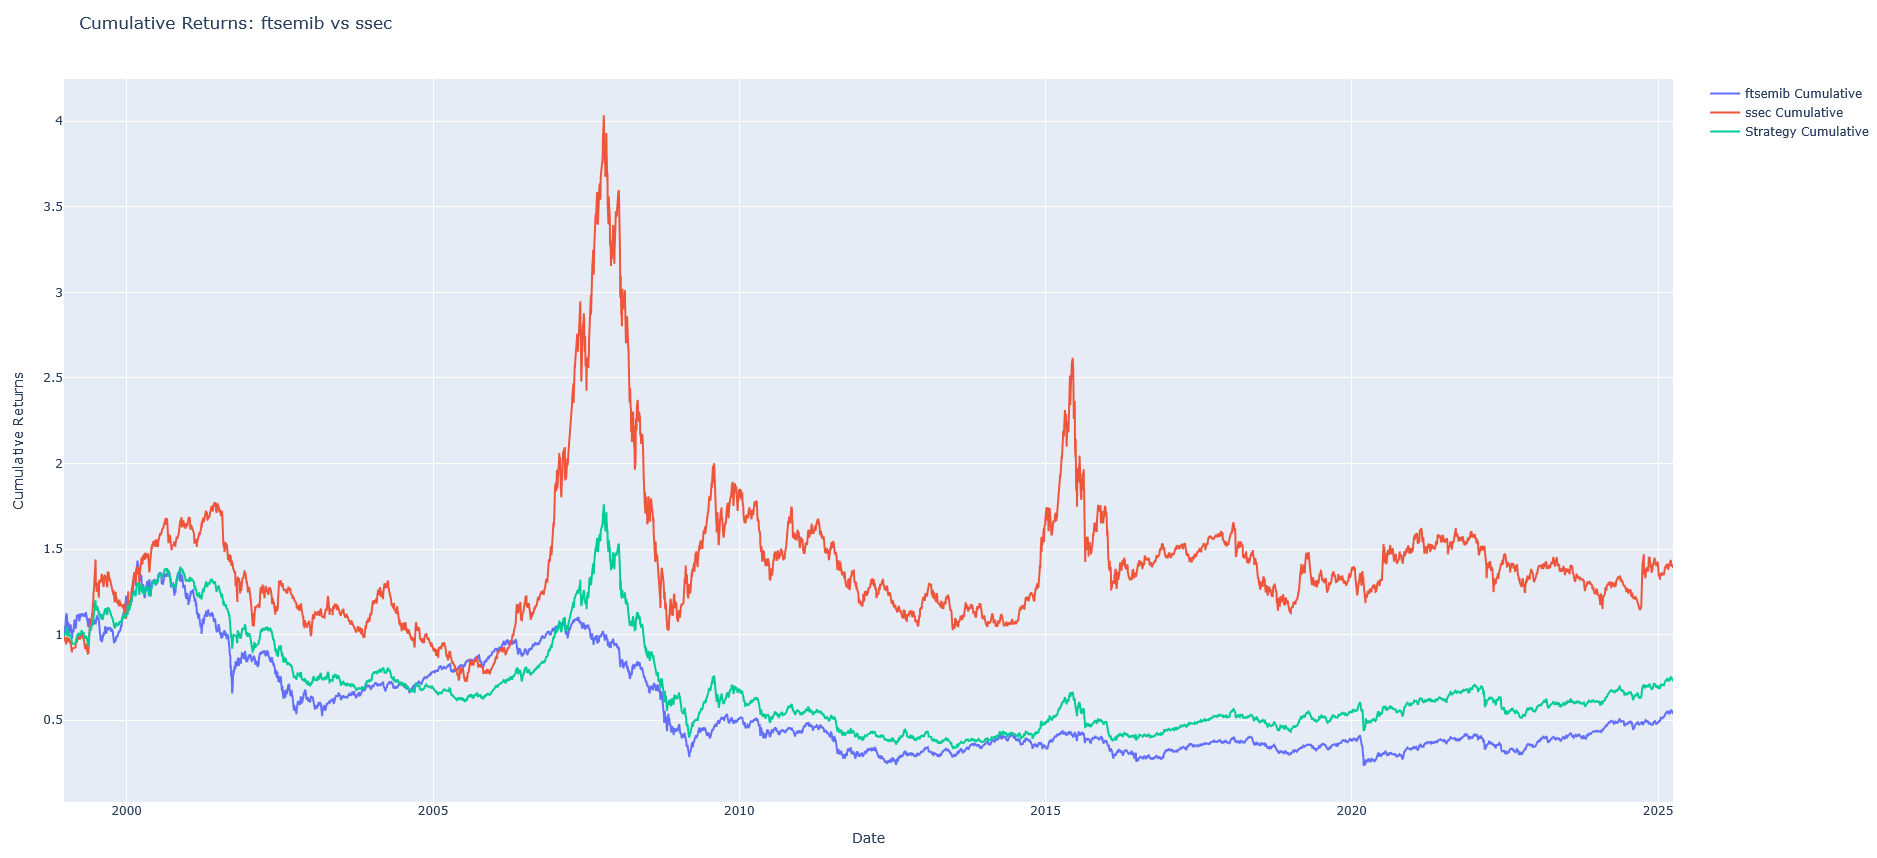
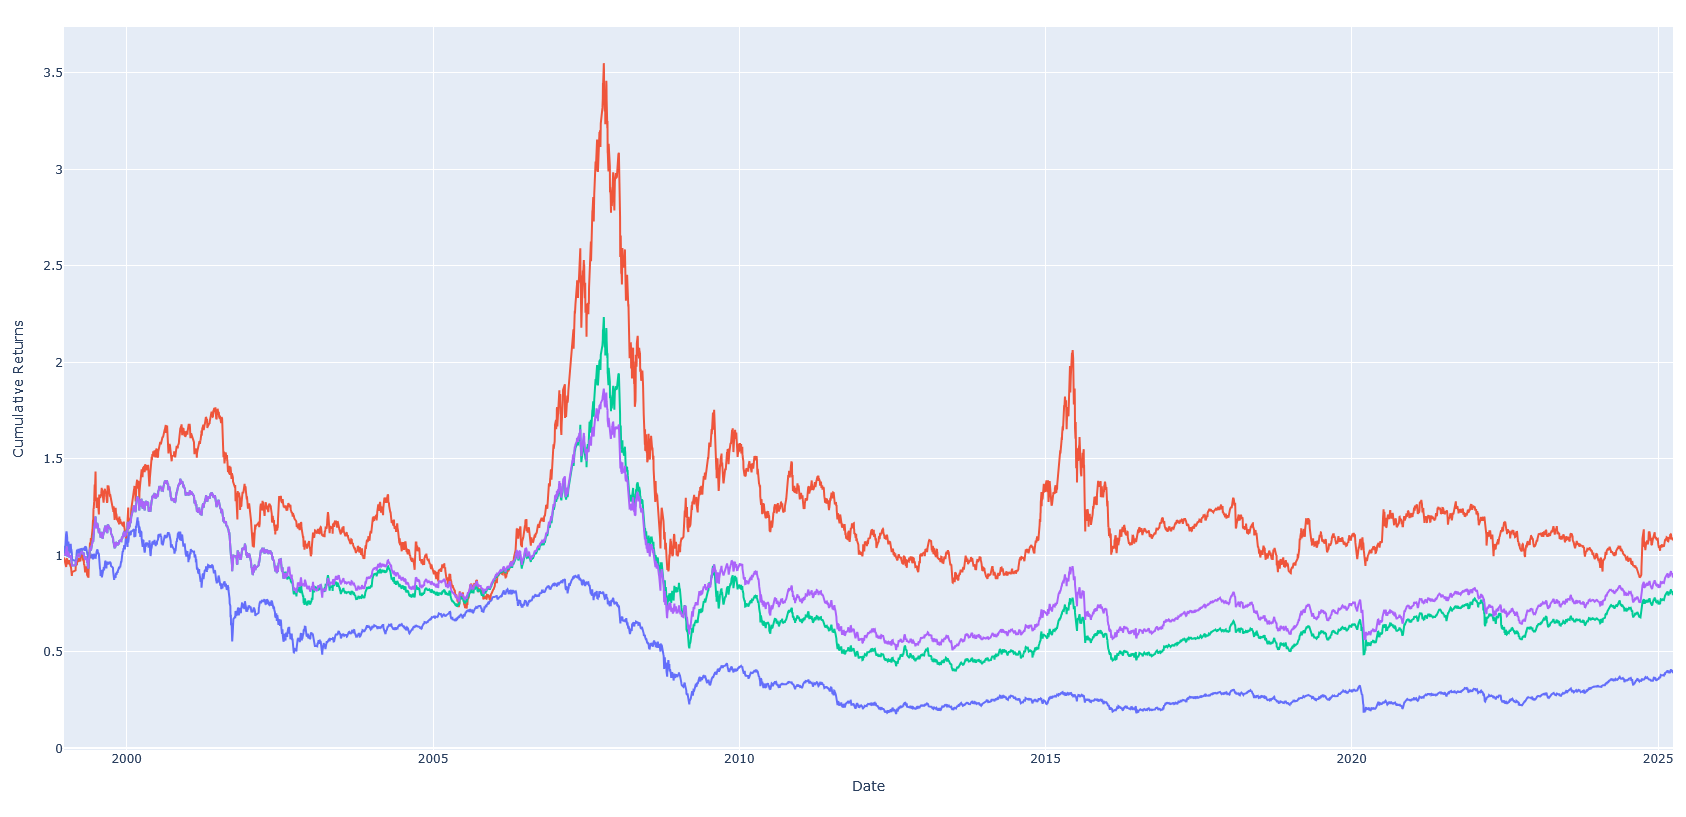
add strat results + multifractal rw comparison

Changed region(s): [[0.0, 0.0, 1.0, 0.9792], [0.1234, 0.4896, 0.1542, 0.5202]]

diff --git a/src/multifractal_analysis/multifractal_analysis.py b/src/multifractal_analysis/multifractal_analysis.py
@@ -3,35 +3,91 @@ import numpy as np
 import plotly.graph_objects as go
 import sys
 import os
+import pandas as pd
 
 # on remonte d’un cran : src/multifractal_analysis → src/
 sys.path.insert(0, os.path.abspath(os.path.join(os.path.dirname(__file__), "..")))
 from utils import get_data, get_config
+from scipy.stats import kurtosis
+
 
 
 if __name__ == "__main__":
-
     file_name = ["ftse100", "s&p500", "ftsemib", "ssec"]
-
     fig = go.Figure()
-    for name in file_name:
+    np.random.seed(42)
 
+    # Paramètres communs pour l'analyse multifractale
+    q_list = np.linspace(-3, 3, 13)
+    scales = np.unique(np.logspace(np.log10(10), np.log10(400), 10, dtype=int))
+
+    # Boucle sur chaque indice
+    for name in file_name:
         data = get_data(name)
-        data = np.log(data).diff().dropna()
+        returns = np.log(data).diff().dropna()
+        returns = returns.loc['1998-01-02':'2025-03-31']
+        print(f"{name} → kurtosis: {kurtosis(returns):.4f}, length: {len(returns)}")
+
         mf = MultifractalFramework(
-            data,
+            returns,
             ticker1="",
             ticker2="",
             window_hurst=0,
             window_mfdfa=1004,
-            q_list=np.linspace(-3, 3, 13),
-            scales=np.unique(np.logspace(np.log10(10), np.log10(1000), 10, dtype=int)),
+            q_list=q_list,
+            scales=scales,
             order=1,
             backtest=False,
             verbose=True,
         )
         mf.compute_multifractal()
-        mf.plot_results(surogate=False, shuffle=True)
-        fig.add_trace(go.Scatter(x=mf.alpha, y=mf.f_alpha, mode="lines+markers", name=name))
-    fig.update_layout(title="Multifractal Spectrum ", xaxis_title="α", yaxis_title="f(α)", template="plotly_white")
-    fig.show()
+        mf.plot_results(shuffle=True, surogate=True)
+        fig.add_trace(go.Scatter(
+            x=mf.alpha,
+            y=mf.f_alpha,
+            mode="lines+markers",
+            name=name
+        ))
+
+    # --- Spectre multifractal d'une marche aléatoire ---
+    # Génération d'une marche aléatoire de même longueur que FTSE100
+    # ref = get_data(file_name[0])
+    # ref_returns = np.log(ref).diff().dropna().loc['1998-01-02':'2025-03-31']
+    #
+    # # Utilisation directe des retours aléatoires
+    # random_returns = pd.Series(
+    #     np.random.randn(len(ref_returns)),
+    #     index=ref_returns.index,
+    #     name='Random Returns'
+    # )
+    # print(f"Random Returns → kurtosis: {kurtosis(random_returns):.4f}, length: {len(random_returns)}")
+    #
+    # mf_rw = MultifractalFramework(
+    #     random_returns,
+    #     ticker1="",
+    #     ticker2="",
+    #     window_hurst=0,
+    #     window_mfdfa=1004,
+    #     q_list=q_list,
+    #     scales=scales,
+    #     order=1,
+    #     backtest=False,
+    #     verbose=False,
+    # )
+    # mf_rw.compute_multifractal()
+    # fig.add_trace(go.Scatter(
+    #     x=mf_rw.alpha,
+    #     y=mf_rw.f_alpha,
+    #     mode="lines+markers",
+    #     name="Random Returns",
+    # ))
+    #
+    # # Mise à jour du graphique
+    # fig.update_layout(
+    #     title="Multifractal Spectrum f(α) for Different Indices and Random Walk",
+    #     xaxis_title="α",
+    #     yaxis_title="f(α)",
+    #     template="plotly_white"
+    # )
+    # fig.show()
+

diff --git a/src/multifractal_analysis/backtest_pairs_multifractal.py b/src/multifractal_analysis/backtest_pairs_multifractal.py
@@ -70,34 +70,42 @@ if __name__ == "__main__":
         port_ret = mf.portfolio_returns.dropna()
 
         # Recalage des dates pour le plot
+        common_index = port_ret.index.intersection(ret1.index).intersection(ret2.index)
+        ret1 = ret1.loc[common_index]
+        ret2 = ret2.loc[common_index]
+        port_ret = port_ret.loc[common_index]
         start = mf.positions.index[0]
         cum1 = (1 + ret1.loc[start:]).cumprod()
         cum2 = (1 + ret2.loc[start:]).cumprod()
         cum_strat = (1 + port_ret).cumprod()
+        porfolio_50_50_returns = 0.5 * ret1.loc[start:] + 0.5 * ret2.loc[start:]
+        porfolio_50_50 = (1 + porfolio_50_50_returns).cumprod()
 
         # --- Affichage des rendements cumulés ---
         fig = go.Figure()
         fig.add_trace(go.Scatter(x=cum1.index, y=cum1, mode="lines", name=f"{ticker1} Cumulative"))
         fig.add_trace(go.Scatter(x=cum2.index, y=cum2, mode="lines", name=f"{ticker2} Cumulative"))
         fig.add_trace(go.Scatter(x=cum_strat.index, y=cum_strat, mode="lines", name="Strategy Cumulative"))
+        fig.add_trace(go.Scatter(x=porfolio_50_50.index, y=porfolio_50_50, mode="lines", name="50/50 Portfolio"))
         fig.update_layout(
             title=f"Cumulative Returns: {ticker1} vs {ticker2}", xaxis_title="Date", yaxis_title="Cumulative Returns"
         )
         fig.show()
 
         # --- Statistiques de performance ---
-        stats_strat = compute_performance_stats(port_ret.loc[start:])
-        stats1 = compute_performance_stats(ret1.loc[start:])
-        stats2 = compute_performance_stats(ret2.loc[start:])
+        stats_strat = compute_performance_stats(port_ret.loc[start:]) * 100
+        stats1 = compute_performance_stats(ret1.loc[start:]) * 100
+        stats2 = compute_performance_stats(ret2.loc[start:]) * 100
+        stats_50_50 = compute_performance_stats(porfolio_50_50_returns.loc[start:]) * 100
 
         results = pd.DataFrame(
             {
-                "Annual Return": [stats_strat[0], stats1[0], stats2[0]],
-                "Annual Volatility": [stats_strat[1], stats1[1], stats2[1]],
-                "Sharpe Ratio": [stats_strat[2], stats1[2], stats2[2]],
-                "Max Drawdown": [stats_strat[3], stats1[3], stats2[3]],
-            },
-            index=["Strategy", ticker1, ticker2],
+                "Strategy": ["ModifOverlap120", f"Long Only {ticker1}", f"Long Only {ticker2}", "50/50 Portfolio"],
+                "Annual Return": [stats_strat[0], stats1[0], stats2[0], stats_50_50[0]],
+                "Annual Volatility": [stats_strat[1], stats1[1], stats2[1], stats_50_50[1]],
+                "Sharpe Ratio": [stats_strat[2], stats1[2], stats2[2], stats_50_50[2]],
+                "Max Drawdown": [stats_strat[3], stats1[3], stats2[3], stats_50_50[3]],
+            }
         )
 
         # Affichage des résultats
@@ -106,6 +114,6 @@ if __name__ == "__main__":
         os.makedirs(output_dir, exist_ok=True)
 
         out_fn = os.path.join(output_dir, f"performance_{ticker1}_{ticker2}.csv")
-        results.to_csv(out_fn)
+        results.to_csv(out_fn, index=False)
         print(f"\n=== Performance for {ticker1} vs {ticker2} ===")
         print(results)

diff --git a/src/multifractal_analysis/mutlifractal_framework.py b/src/multifractal_analysis/mutlifractal_framework.py
@@ -235,23 +235,38 @@ class MultifractalFramework:
         )
         fig.show()
         # multifractal
-        if shuffle:
+        if shuffle and not surogate:
             # shuffle only
             fig1 = go.Figure()
-            fig1.add_trace(go.Scatter(x=self.alpha, y=self.f_alpha, mode="lines", name="f(α)"))
-            fig1.add_trace(go.Scatter(x=self.alpha_shuffle, y=self.f_alpha_shuffle, mode="lines", name="f(α) shuffle"))
+            fig1.add_trace(go.Scatter(x=self.alpha, y=self.f_alpha, mode="lines+markers", name="f(α)"))
+            fig1.add_trace(go.Scatter(x=self.alpha_shuffle, y=self.f_alpha_shuffle, mode="lines+markers", name="f(α) shuffle"))
             fig1.update_layout(
                 title="Spectre multifractal shuffle", xaxis_title="α", yaxis_title="f(α)", template="plotly_white"
             )
             fig1.show()
-        if surogate:
+        elif surogate and not shuffle:
             # surogate only
             fig2 = go.Figure()
-            fig2.add_trace(go.Scatter(x=self.alpha, y=self.f_alpha, mode="lines", name="f(α)"))
+            fig2.add_trace(go.Scatter(x=self.alpha, y=self.f_alpha, mode="lines+markers", name="f(α)"))
             fig2.add_trace(
-                go.Scatter(x=self.alpha_surogate, y=self.f_alpha_surogate, mode="lines", name="f(α) surogate")
+                go.Scatter(x=self.alpha_surogate, y=self.f_alpha_surogate, mode="lines+markers", name="f(α) surogate")
             )
             fig2.update_layout(
                 title="Spectre multifractal surogate", xaxis_title="α", yaxis_title="f(α)", template="plotly_white"
             )
             fig2.show()
+        elif surogate and shuffle:
+            # both
+            fig3 = go.Figure()
+            fig3.add_trace(go.Scatter(x=self.alpha, y=self.f_alpha, mode="lines+markers", name="f(α)"))
+            fig3.add_trace(go.Scatter(x=self.alpha_shuffle, y=self.f_alpha_shuffle, mode="lines+markers", name="f(α) shuffle"))
+            fig3.add_trace(
+                go.Scatter(x=self.alpha_surogate, y=self.f_alpha_surogate, mode="lines+markers", name="f(α) surogate")
+            )
+            fig3.update_layout(
+                title="Spectre multifractal shuffle & surogate",
+                xaxis_title="α",
+                yaxis_title="f(α)",
+                template="plotly_white",
+            )
+            fig3.show()
